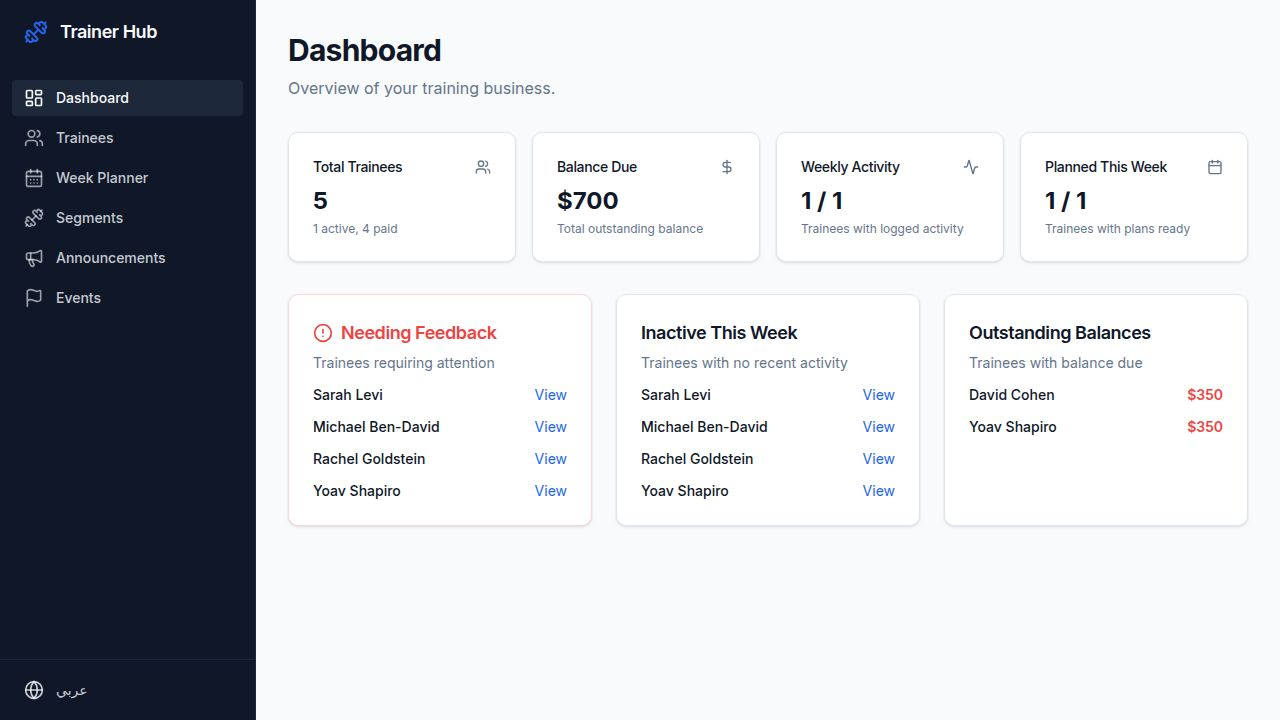
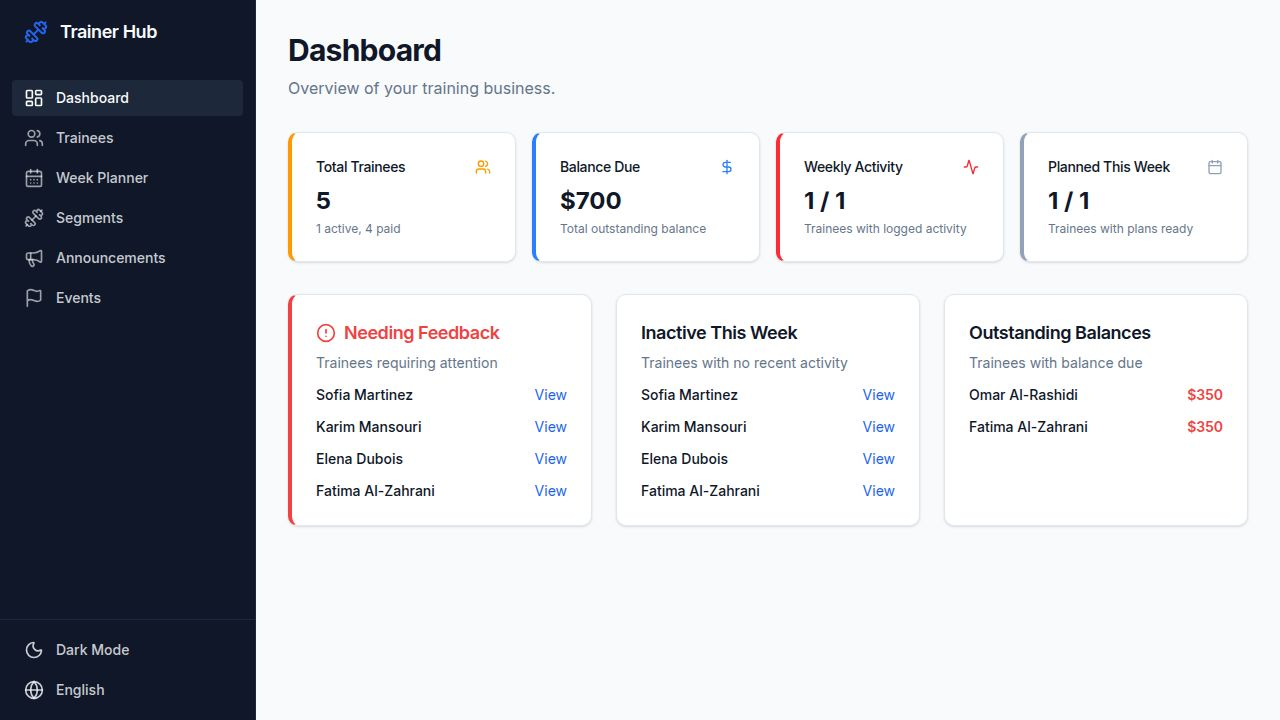
Add Hebrew language support and a multi-language selector
Implement Hebrew locale, update i18n configuration, and introduce a dropdown menu for language selection in the sidebar.

Replit-Commit-Author: Agent
Replit-Commit-Session-Id: de73d026-bda8-404c-874d-e1bb7291faee
Replit-Commit-Checkpoint-Type: full_checkpoint
Replit-Commit-Event-Id: 538ef78a-784d-4bd2-90fc-e15870bfbb5b
Replit-Commit-Screenshot-Url: https://storage.googleapis.com/screenshot-production-us-central1/2a5ab287-5576-4cda-99fb-fa0c77fa6c78/de73d026-bda8-404c-874d-e1bb7291faee/C5Q3Q5C
Replit-Helium-Checkpoint-Created: true

diff --git a/artifacts/trainer-web/src/components/layout/sidebar.tsx b/artifacts/trainer-web/src/components/layout/sidebar.tsx
@@ -10,6 +10,7 @@ import {
   Globe,
   Sun,
   Moon,
+  Check,
 } from "lucide-react";
 import { cn } from "@/lib/utils";
 import { Button } from "@/components/ui/button";
@@ -18,14 +19,26 @@ import {
   SheetContent,
   SheetTrigger,
 } from "@/components/ui/sheet";
+import {
+  DropdownMenu,
+  DropdownMenuContent,
+  DropdownMenuItem,
+  DropdownMenuTrigger,
+} from "@/components/ui/dropdown-menu";
 import { useState } from "react";
 import { useTranslation } from "react-i18next";
 import { useTheme } from "@/hooks/use-theme";
 
+const LANGUAGES = [
+  { code: "en", label: "English" },
+  { code: "ar", label: "عربي" },
+  { code: "he", label: "עברית" },
+];
+
 function NavContent({ onClick }: { onClick?: () => void }) {
   const [location] = useLocation();
   const { t, i18n } = useTranslation();
-  const isRtl = i18n.language === "ar";
+  const isRtl = i18n.language === "ar" || i18n.language === "he";
   const { theme, toggleTheme } = useTheme();
 
   const navigation = [
@@ -37,9 +50,7 @@ function NavContent({ onClick }: { onClick?: () => void }) {
     { name: t("nav.events"), href: "/events", icon: Flag },
   ];
 
-  function toggleLanguage() {
-    i18n.changeLanguage(isRtl ? "en" : "ar");
-  }
+  const currentLang = LANGUAGES.find((l) => l.code === i18n.language) ?? LANGUAGES[0];
 
   return (
     <div className="flex h-full flex-col bg-sidebar">
@@ -85,13 +96,27 @@ function NavContent({ onClick }: { onClick?: () => void }) {
             : <Moon className="h-5 w-5 me-3 shrink-0" />}
           {theme === "dark" ? t("common.lightMode") : t("common.darkMode")}
         </button>
-        <button
-          onClick={toggleLanguage}
-          className="flex items-center w-full rounded-md px-3 py-2 text-sm font-medium text-sidebar-foreground/80 hover:bg-sidebar-accent hover:text-sidebar-accent-foreground transition-colors"
-        >
-          <Globe className="h-5 w-5 me-3 shrink-0" />
-          {isRtl ? t("common.switchToEnglish") : t("common.switchToArabic")}
-        </button>
+
+        <DropdownMenu>
+          <DropdownMenuTrigger asChild>
+            <button className="flex items-center w-full rounded-md px-3 py-2 text-sm font-medium text-sidebar-foreground/80 hover:bg-sidebar-accent hover:text-sidebar-accent-foreground transition-colors">
+              <Globe className="h-5 w-5 me-3 shrink-0" />
+              {currentLang.label}
+            </button>
+          </DropdownMenuTrigger>
+          <DropdownMenuContent side="top" align={isRtl ? "end" : "start"} className="w-40">
+            {LANGUAGES.map((lang) => (
+              <DropdownMenuItem
+                key={lang.code}
+                onClick={() => i18n.changeLanguage(lang.code)}
+                className="flex items-center justify-between cursor-pointer"
+              >
+                {lang.label}
+                {i18n.language === lang.code && <Check className="h-4 w-4 text-primary" />}
+              </DropdownMenuItem>
+            ))}
+          </DropdownMenuContent>
+        </DropdownMenu>
       </div>
     </div>
   );
@@ -100,7 +125,7 @@ function NavContent({ onClick }: { onClick?: () => void }) {
 export function Sidebar() {
   const [open, setOpen] = useState(false);
   const { i18n } = useTranslation();
-  const isRtl = i18n.language === "ar";
+  const isRtl = i18n.language === "ar" || i18n.language === "he";
 
   return (
     <>

diff --git a/artifacts/trainer-web/src/i18n/index.ts b/artifacts/trainer-web/src/i18n/index.ts
@@ -2,6 +2,7 @@ import i18n from "i18next";
 import { initReactI18next } from "react-i18next";
 import en from "./locales/en.json";
 import ar from "./locales/ar.json";
+import he from "./locales/he.json";
 
 const savedLang = localStorage.getItem("lang") || "en";
 
@@ -9,6 +10,7 @@ i18n.use(initReactI18next).init({
   resources: {
     en: { translation: en },
     ar: { translation: ar },
+    he: { translation: he },
   },
   lng: savedLang,
   fallbackLng: "en",

diff --git a/artifacts/trainer-web/src/App.tsx b/artifacts/trainer-web/src/App.tsx
@@ -19,7 +19,7 @@ const queryClient = new QueryClient();
 function RTLHandler() {
   const { i18n } = useTranslation();
   useEffect(() => {
-    const isRtl = i18n.language === "ar";
+    const isRtl = i18n.language === "ar" || i18n.language === "he";
     document.documentElement.dir = isRtl ? "rtl" : "ltr";
     document.documentElement.lang = i18n.language;
     localStorage.setItem("lang", i18n.language);

diff --git a/artifacts/trainer-web/src/components/layout/main-layout.tsx b/artifacts/trainer-web/src/components/layout/main-layout.tsx
@@ -9,7 +9,7 @@ interface MainLayoutProps {
 
 export function MainLayout({ children }: MainLayoutProps) {
   const { i18n } = useTranslation();
-  const isRtl = i18n.language === "ar";
+  const isRtl = i18n.language === "ar" || i18n.language === "he";
 
   return (
     <div className="min-h-screen bg-background">
